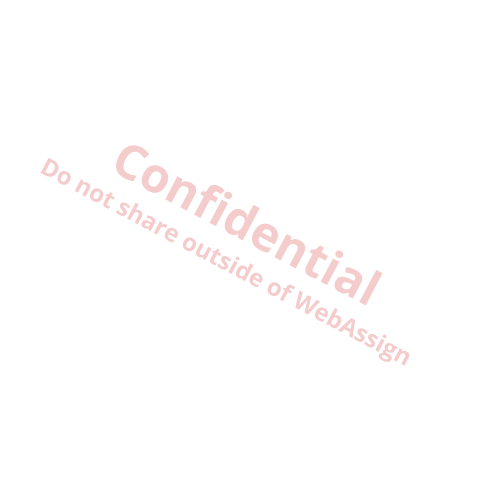
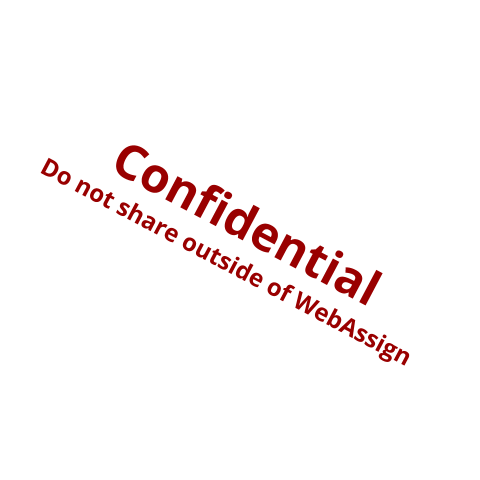
COMM-597: Show watermark when printing as well

Changed region(s): [[0.0625, 0.2812, 0.875, 0.7812]]

diff --git a/dita_ot_plugins/net.webassign.webhelp/resources/h5help/js/help-functions.js b/dita_ot_plugins/net.webassign.webhelp/resources/h5help/js/help-functions.js
@@ -695,8 +695,9 @@ h5help.addWatermark = function() {
     var nopattern = !(typeof(h5help.params.watermark.file) == 'string') || h5help.params.watermark.file == '';
     var patternmatches = !nopattern && h5help.baseUrl.match(new RegExp(h5help.params.watermark.urlpattern)) != null;
     if (haswatermark && (nopattern || patternmatches)) {
-        var wmstyle = '<style type="text/css">div#topic{'
-            + 'background: url('+h5help.params.watermark.file+') no-repeat fixed right 20px !important;'
+        var wmstyle = '<style type="text/css">div#topic:before {'
+            + 'position: fixed; display: block; top: 40px; right: 0px;'
+            + 'content:url('+h5help.params.watermark.file+'); opacity: 0.25;'
             + '}</style>';
         $("head").append(wmstyle);
     }
